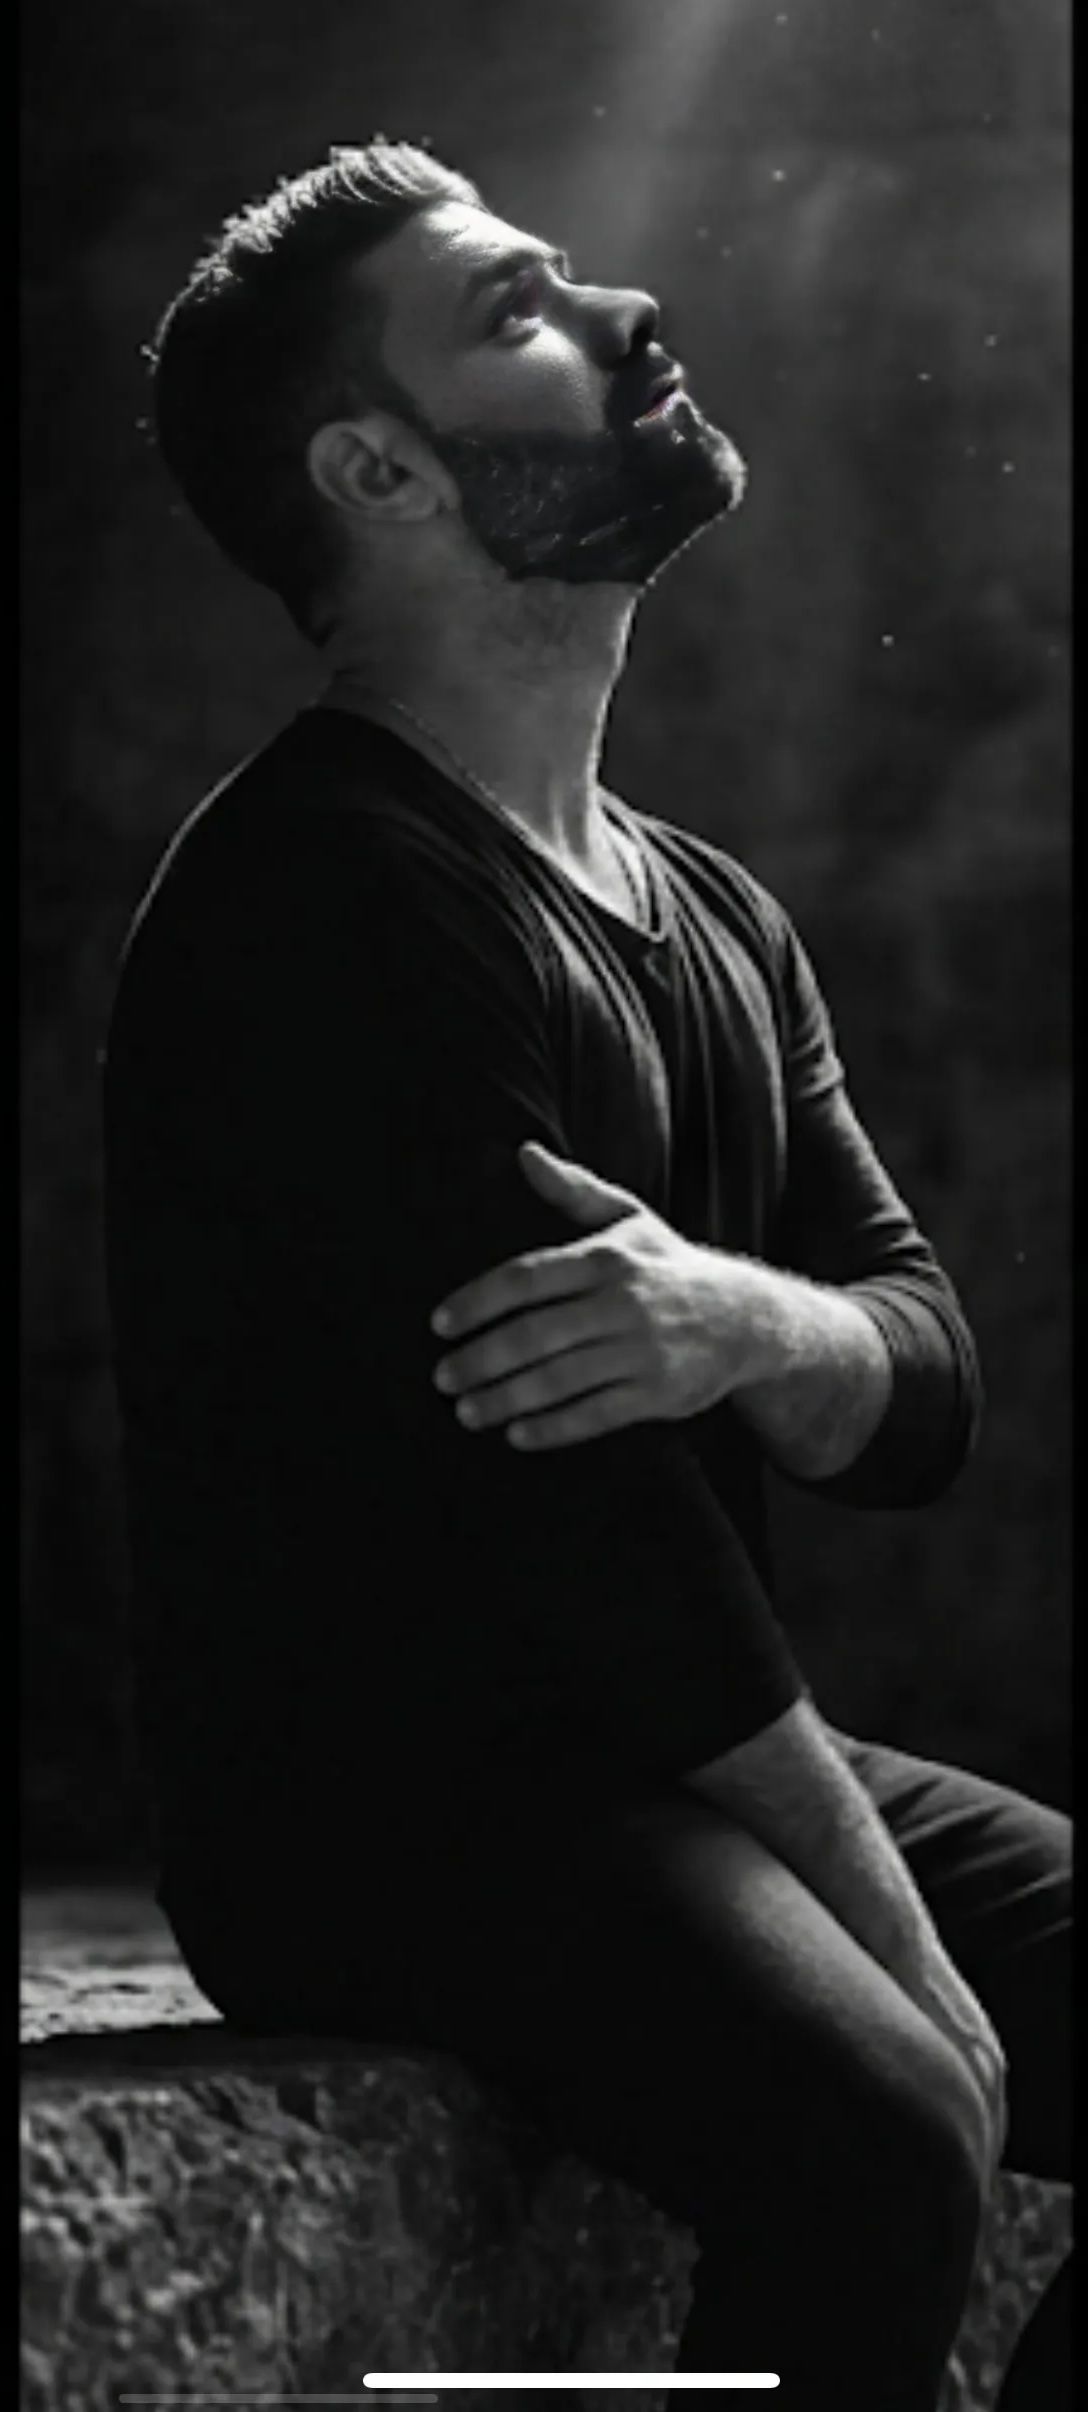
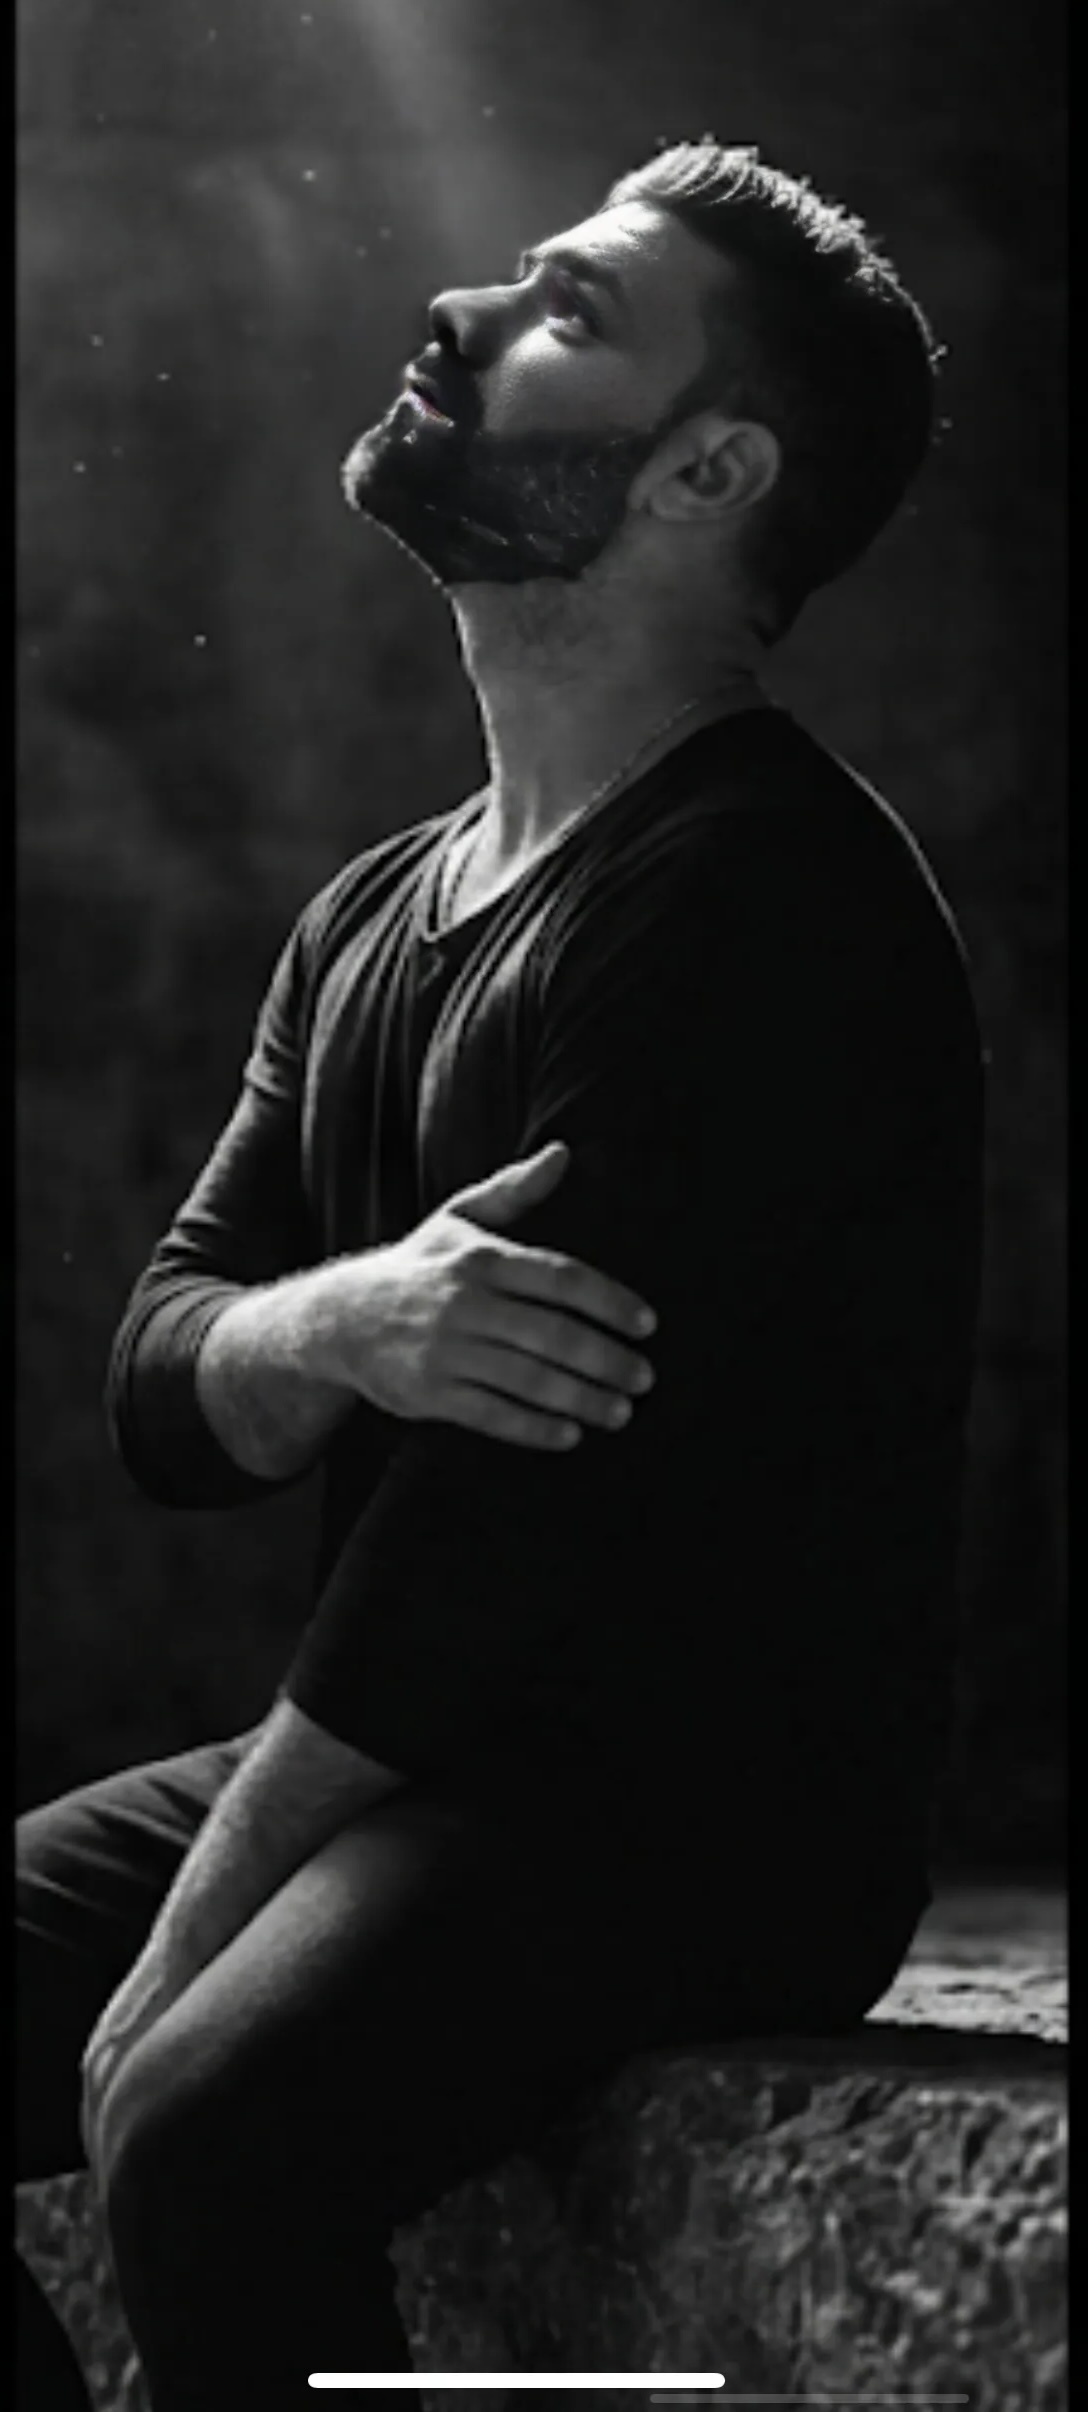
Position About portrait to the right of the text, increase visibility
Claude-Session: https://claude.ai/code/session_017TUcojArvc2ELRCPQtYQ3J

diff --git a/components/About.tsx b/components/About.tsx
@@ -6,21 +6,23 @@ import Reveal from "./Reveal";
 export default function About() {
   return (
     <section id="about" className="relative w-full overflow-hidden py-28 md:py-40">
-      {/* cinematic portrait background */}
-      <div className="pointer-events-none absolute inset-0 opacity-25">
+      {/* cinematic portrait — person sits to the right of the text */}
+      <div className="pointer-events-none absolute inset-0">
         <Image
           src="/images/about-bg.jpeg"
           alt=""
           fill
           sizes="100vw"
-          className="object-cover object-[50%_25%]"
+          className="object-cover object-[78%_22%] opacity-70"
           priority={false}
         />
-        <div className="absolute inset-0 bg-gradient-to-b from-ink via-ink/80 to-ink" />
-        <div className="absolute inset-0 bg-ink/30" />
+        {/* darken the left where the text sits, keep the person visible on the right */}
+        <div className="absolute inset-0 bg-gradient-to-r from-ink via-ink/85 to-ink/20" />
+        <div className="absolute inset-x-0 top-0 h-28 bg-gradient-to-b from-ink to-transparent" />
+        <div className="absolute inset-x-0 bottom-0 h-28 bg-gradient-to-t from-ink to-transparent" />
       </div>
 
-      <div className="relative z-10 mx-auto max-w-3xl px-6 md:px-10">
+      <div className="relative z-10 mr-auto max-w-xl px-6 md:px-10">
         <Reveal>
           <p className="mb-6 text-xs uppercase tracking-[0.4em] text-gold">
             Über mich